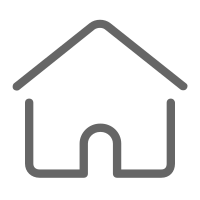
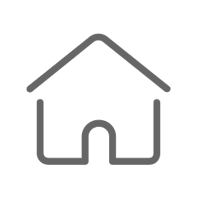
nav 图标大小修改、message相关api

Changed region(s): [[0.06, 0.09, 0.96, 0.9]]

diff --git a/wx-applets/wx-cnode/api/http.js b/wx-applets/wx-cnode/api/http.js
@@ -4,24 +4,11 @@
  * @param {*} resolve
  * @param {*} res 返回的data
  */
-const checkCode = (resolve, res) => {
+const checkCode = (resolve,res) => {
   if (+res.statusCode === 200) {
     resolve(res)
-  } else if (+res.statusCode === 400) {
-    wx.showToast({
-      title: res.msg,
-      icon: 'none',
-      duration: 2000,
-      mask: true
-    })
-  } else if (+res.statusCode === 406) {
-    wx.showToast({
-      title: res.msg,
-      icon: 'none',
-      duration: 2000,
-      mask: true
-    })
   } else {
+    console.error(res);
   }
 }
 
@@ -33,11 +20,13 @@ const checkCode = (resolve, res) => {
  * @return {Promise}
  */
 const apiUrl = "https://cnodejs.org/api/v1/";
-const http = (path, params={}) => {
-  wx.showLoading({
-    title: '加载中',
-    mask: true
-  })
+const http = (path, params={},isShowLoading=true) => {
+  if (isShowLoading){
+    wx.showLoading({
+      title: '加载中',
+      mask: true
+    })
+  }
   let method = params.method;
   delete params.method;
   return new Promise((resolve, reject) => {
@@ -48,7 +37,7 @@ const http = (path, params={}) => {
       header: { 'Content-Type': 'application/json' },
       method: method || 'get',
       success: function (res) {
-        checkCode(resolve, res)
+        checkCode(resolve,res)
         wx.hideLoading()
       },
       fail: function (err) {

diff --git a/wx-applets/wx-cnode/api/api.js b/wx-applets/wx-cnode/api/api.js
@@ -28,6 +28,34 @@ function deCollect(params) {
   return http(`topic_collect/de_collect`, params).then(res => res).catch(err => err)
 }
 
+/**
+ * 消息相关
+ */
+function fetchMessageCount(params){
+  return http(`message/count`, params,false).then(res => res).catch(err => err)
+}
+
+/**
+ * 获取已读和未读消息
+ */
+function fetchMessage(params){
+  return http(`message`,params).then(res => res).catch(err => err)
+}
+
+/**
+ * 标记全部已读
+ */
+function setMessageMarkAll(params) {
+  return http(`/message/mark_all`, params).then(res => res).catch(err => err)
+}
+
+/**
+ * 标记单个消息为已读
+ */
+function setMessageMarkOne(params) {
+  return http(`/message/mark_one/${params.msgId}`, params).then(res => res).catch(err => err)
+}
+
 module.exports = {
   topics,
   topicDetail,
@@ -35,7 +63,12 @@ module.exports = {
   fetchUserInfo,
   fetchCollect,
   addCollect,
-  deCollect
+  deCollect,
+  fetchMessageCount,
+  fetchMessage,
+  setMessageMarkAll,
+  setMessageMarkOne
+
 
 }
   

diff --git a/wx-applets/wx-cnode/app.js b/wx-applets/wx-cnode/app.js
@@ -3,16 +3,25 @@ const api = require('./api/api.js')
 
 App({
   api: api,
+  accesstoken:'',
   onLaunch: function () {
-    
-  },
-  onLaunch: function () {
-    //调用API从本地缓存中获取数据
-    var logs = wx.getStorageSync('logs') || []
-    logs.unshift(Date.now())
-    wx.setStorageSync('logs', logs)
+    this.setMessageCount()
   },
   globalData: {
     userInfo: null
+  },
+  setMessageCount:function(){
+    let accesstoken = wx.getStorageSync('accesstoken').result;
+    api.fetchMessageCount({accesstoken})
+    .then(res => {
+      if(res.data.success && res.data.data>0){
+        wx.showTabBarRedDot({
+          index:2
+        })
+      }
+    })
+    .catch(e => {
+      console.error(e)
+    })
   }
 })

diff --git a/wx-applets/wx-cnode/pages/index/index.js b/wx-applets/wx-cnode/pages/index/index.js
@@ -50,7 +50,6 @@ Page({
         page:init ? 2 : this.data.page + 1,
         topicList: init ? data : this.data.topicList.concat(data)
       })
-      console.log(this.data.topicList)
     })
     .catch(e => {
       console.error(e)
